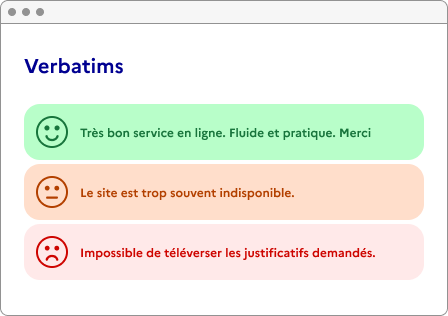
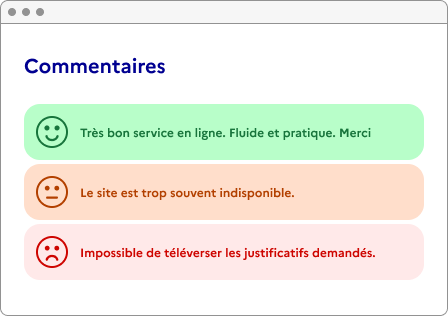
fix: image home page + wording

Changed region(s): [[0.0312, 0.1709, 0.375, 0.2563]]

diff --git a/webapp-backoffice/prisma/seeds/form.ts b/webapp-backoffice/prisma/seeds/form.ts
@@ -16,7 +16,7 @@ const createQualityRatingOptions =
 			position: 2
 		},
 		{ label: 'Bonne', value: 'Bonne', position: 3 },
-		{ label: 'Excellente', value: 'Excellente', position: 4 },
+		{ label: 'Excellente', value: 'Excellente', position: 4 }
 	];
 
 const createRadioBlock = (
@@ -210,7 +210,7 @@ export const createRootForm: Prisma.FormTemplateUncheckedCreateInput = {
 			{
 				title: 'Commentaires',
 				description:
-					"Cette étape permet de récolter des verbatims, dans lesquels les usagers expriment des retours personnels et détaillés de l’expérience avec le service.\nLes données récoltées permettent d’améliorer votre connaissance usager et d'identifier des pistes d’amélioration du service en ligne.",
+					"Cette étape permet de récolter des commentaires, dans lesquels les usagers expriment des retours personnels et détaillés de l’expérience avec le service.\nLes données récoltées permettent d’améliorer votre connaissance usager et d'identifier des pistes d’amélioration du service en ligne.",
 				position: 3,
 				isHideable: false,
 				form_template_blocks: {
